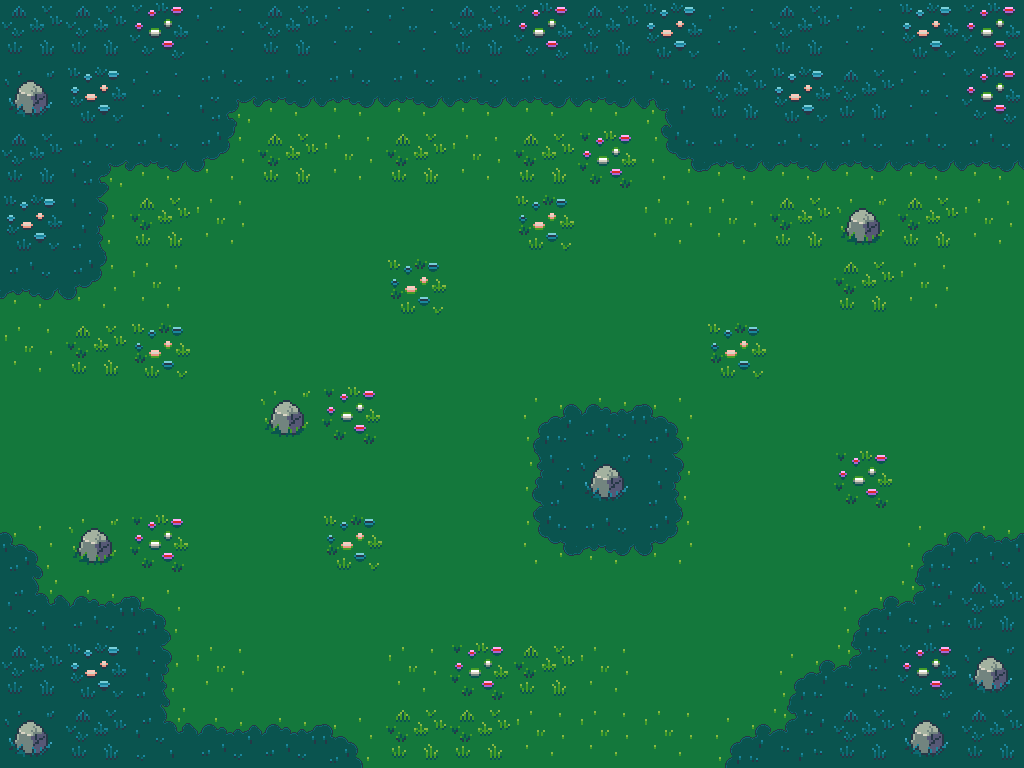
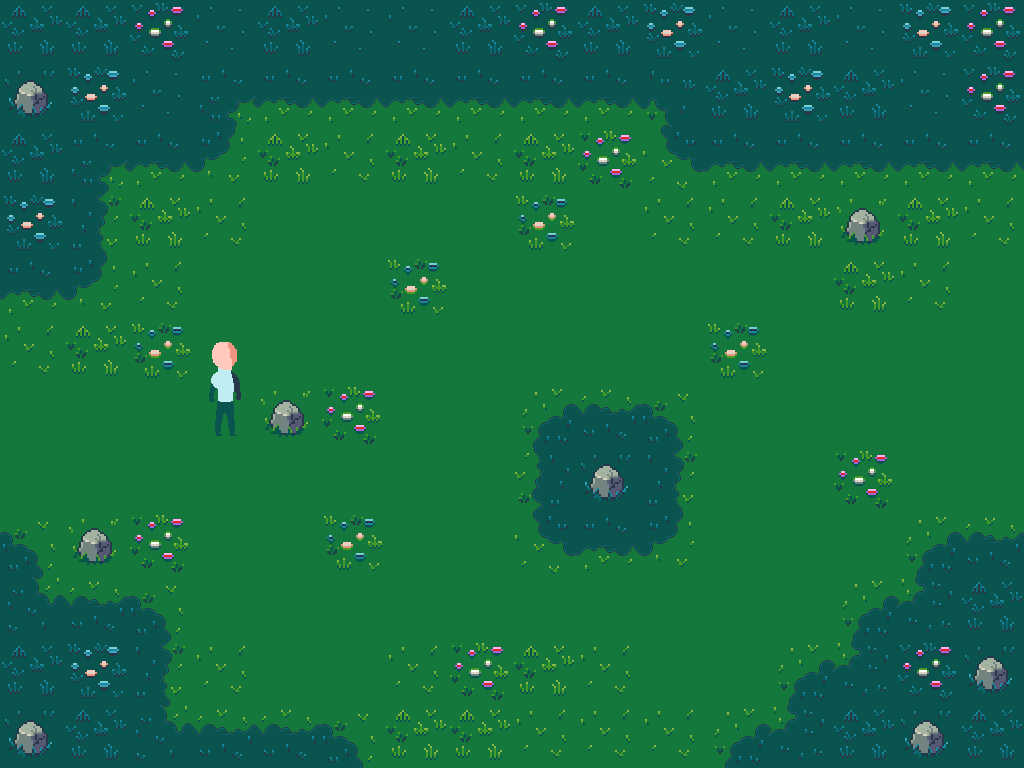
game: basic game implementation and update assets
- delete dead code from previous piston tests
- update map, interface assets
- character design search and tentative

Changed region(s): [[0.1875, 0.4375, 0.25, 0.5625]]

diff --git a/client/src/main.rs b/client/src/main.rs
@@ -1,9 +1,16 @@
-extern crate piston_window;
-extern crate gfx;
+extern crate glutin_window;
+extern crate graphics;
+extern crate opengl_graphics;
+extern crate piston;
 
-use std::path::Path;
-use piston_window::*;
-use piston::input::{Button, Key, PressEvent};
+use glutin_window::GlutinWindow as Window;
+use opengl_graphics::{GlGraphics, OpenGL, Texture, TextureSettings};
+use piston::event_loop::{EventSettings, Events};
+use piston::input::{RenderArgs, RenderEvent, UpdateArgs, UpdateEvent, Button};
+use piston::window::WindowSettings;
+use piston::{PressEvent, ReleaseEvent, ResizeArgs, ResizeEvent};
+
+use graphics::*;
 
 const WINDOW_WIDTH:u32 = 1024;
 const WINDOW_HEIGHT:u32 = 768+192;
@@ -11,81 +18,113 @@ const WINDOW_HEIGHT:u32 = 768+192;
 // Add check after loading map and gui, if size differ from const stop the program
 const MAP_WIDTH:u32 = 1024;
 const MAP_HEIGHT:u32 = 768;
+const MAP_WIDTH_CENTER:u32 = (WINDOW_WIDTH - MAP_WIDTH) / 2;
 
 const GUI_WIDTH:u32 = 1024;
 const GUI_HEIGHT:u32 = 192;
-
+const GUI_WIDTH_CENTER:u32 = (WINDOW_WIDTH - GUI_WIDTH) / 2;
 const GAME_HEIGHT:u32 = MAP_HEIGHT + GUI_HEIGHT;
 
-// [17:58:55:362] Sulfurel : Le Lorem Ipsum est simplement du faux texte employé dans la composition et la mise en page avant impression. Le Lorem Ipsum est le faux texte standard de l'imprimerie depuis les années 1500, quand un 
+// Colors
+const BLACK: [f32; 4] = [0.0, 0.0, 0.0, 1.0];
 
-// [17:58:55:362] Sulfurel : Le Lorem Ipsum est simplement du faux
-// texte employé dans la composition et la mise en page avant
-// impression. Le Lorem Ipsum est le faux texte standard de
-// l'imprimerie depuis les années 1500, quand un 
+pub struct Game {
+    gl: GlGraphics, // OpenGL drawing backend.
+    map_img: Image,
+    ui_img: Image,
+    map_txt: Texture,
+    ui_txt: Texture
+}
 
+impl Game {
+    fn render(&mut self, args: &RenderArgs) {
+
+        self.gl.draw(args.viewport(), |c, gl| {
+            // Clear the screen.
+            clear(BLACK, gl);
+            self.map_img.draw(&self.map_txt, &DrawState::default(), c.transform, gl);
+            self.ui_img.draw(&self.ui_txt, &DrawState::default(), c.transform, gl);
+        });
+    }
+
+    fn key_press(&mut self, args: &Button) {
+        if let &Button::Keyboard(key) = args {
+            match key {
+                any => {
+                    println!("Key pressed: {:?}", any);
+                }
+           }
+        }
+    }
+
+    fn key_release(&mut self, args: &Button) {
+        if let &Button::Keyboard(key) = args {
+            match key {
+                any => {
+                    println!("Key released: {:?}", any);
+                }
+           }
+        }
+    }
+
+    fn resize_window(&mut self, args: &ResizeArgs) {
+        let window_width = args.window_size[0] as u32;
+        let window_height = args.window_size[1] as u32;
+        let map_x_centered = ((window_width - MAP_WIDTH) / 2) as f64;
+        let gui_x_centered = ((window_width - GUI_WIDTH) / 2) as f64;
+
+        let map_y_centered = ((window_height - GAME_HEIGHT) / 2) as f64;
+
+        self.map_img = Image::new().rect([map_x_centered, map_y_centered, MAP_WIDTH as f64, MAP_HEIGHT as f64]);
+        self.ui_img = Image::new().rect([gui_x_centered, map_y_centered + MAP_HEIGHT as f64, GUI_WIDTH as f64, GUI_HEIGHT as f64]);
+        println!("Resize : {} x {}", window_width, window_height);
+        println!("Resize : new map_x: {}", map_x_centered);
+    }
+
+    fn update(&mut self, args: &UpdateArgs) {
+    }
+}
 
 fn main() {
-
     let opengl = OpenGL::V3_2;
-    let mut window: PistonWindow = WindowSettings::new("rpg", [WINDOW_WIDTH, WINDOW_HEIGHT])
-    .exit_on_esc(true)
-    .graphics_api(opengl)
-    .resizable(false)
-    .build()
-    .unwrap();
 
-	//Create the image object and attach a square Rectangle object inside.
-    let map_x_centered = ((WINDOW_WIDTH - MAP_WIDTH) / 2) as f64;
-    let gui_x_centered = ((WINDOW_WIDTH - GUI_WIDTH) / 2) as f64;
-    let mut map   = Image::new().rect([map_x_centered, 0.0, MAP_WIDTH as f64, MAP_HEIGHT as f64]);
-    let mut gui   = Image::new().rect([gui_x_centered, MAP_HEIGHT as f64, GUI_WIDTH as f64, GUI_HEIGHT as f64]);
+    // Create a Glutin window.
+    let mut window: Window = WindowSettings::new("rpg", [WINDOW_WIDTH, WINDOW_HEIGHT])
+        .graphics_api(opengl)
+        .exit_on_esc(true)
+        .resizable(false)
+        .build()
+        .unwrap();
 
-    //A texture to use with the image
-    let ref mut texture_context = window.create_texture_context();
-    let texture = Texture::from_path(texture_context, Path::new("../assets/v2/map_1024x768_grid64.png"), Flip::None, &piston_window::TextureSettings::new()).unwrap();
-    let gui_texture = Texture::from_path(texture_context, Path::new("../assets/v2/interface_1024x192_grid16.png"), Flip::None, &piston_window::TextureSettings::new()).unwrap();
- 
-     
+    // Create a new game and run it.
+    let mut game = Game {
+        gl: GlGraphics::new(opengl),
+        map_img: Image::new().rect([MAP_WIDTH_CENTER as f64, 0.0, MAP_WIDTH as f64, MAP_HEIGHT as f64]),
+        ui_img: Image::new().rect([GUI_WIDTH_CENTER as f64, MAP_HEIGHT as f64, GUI_WIDTH as f64, GUI_HEIGHT as f64]),
+        map_txt: Texture::from_path("../assets/v2/map_1024x768_grid64.png", &TextureSettings::new()).unwrap(),
+        ui_txt: Texture::from_path("../assets/v2/interface_1024x192_grid16.png", &TextureSettings::new()).unwrap()
+    };
+
     let mut events = Events::new(EventSettings::new());
     while let Some(e) = events.next(&mut window) {
-
-        if let Some(r) = e.resize_args() {
-            let window_width = r.window_size[0] as u32;
-            let window_height = r.window_size[1] as u32;
-            let map_x_centered = ((window_width - MAP_WIDTH) / 2) as f64;
-            let gui_x_centered = ((window_width - GUI_WIDTH) / 2) as f64;
-
-            let map_y_centered = ((window_height - GAME_HEIGHT) / 2) as f64;
-
-            map = Image::new().rect([map_x_centered, map_y_centered, MAP_WIDTH as f64, MAP_HEIGHT as f64]);
-            gui = Image::new().rect([gui_x_centered, map_y_centered + MAP_HEIGHT as f64, GUI_WIDTH as f64, GUI_HEIGHT as f64]);
-            println!("Resize : {} x {}", window_width, window_height);
-            println!("Resize : new map_x: {}", map_x_centered);
+        if let Some(args) = e.render_args() {
+            game.render(&args);
         }
 
-        if let Some(input) = e.press_args() {
-            if let Button::Keyboard(key) = input {
-                match key {
-                    any => {
-                        println!("Key pressed: {:?}", any);
-                    }
-               }
-            }
+        if let Some(args) = e.press_args() {
+            game.key_press(&args);
         }
 
-        if let Some(r) = e.render_args() {
+        if let Some(args) = e.release_args() {
+            game.key_release(&args);
+        }
 
-            let black = [0.0, 0.0, 0.0, 1.0];
-            if let Some(e) = window.next() {
-                window.draw_2d(&e, |c, g, _| {
-                    clear(black, g);
-    
-                    //Draw the image with the texture
-                    map.draw(&texture, &DrawState::default(), c.transform, g);
-                    gui.draw(&gui_texture, &DrawState::default(), c.transform, g);
-                });
-            }
+        if let Some(args) = e.resize_args() {
+            game.resize_window(&args);
+        }
+
+        if let Some(args) = e.update_args() {
+            game.update(&args);
         }
     }
 }
